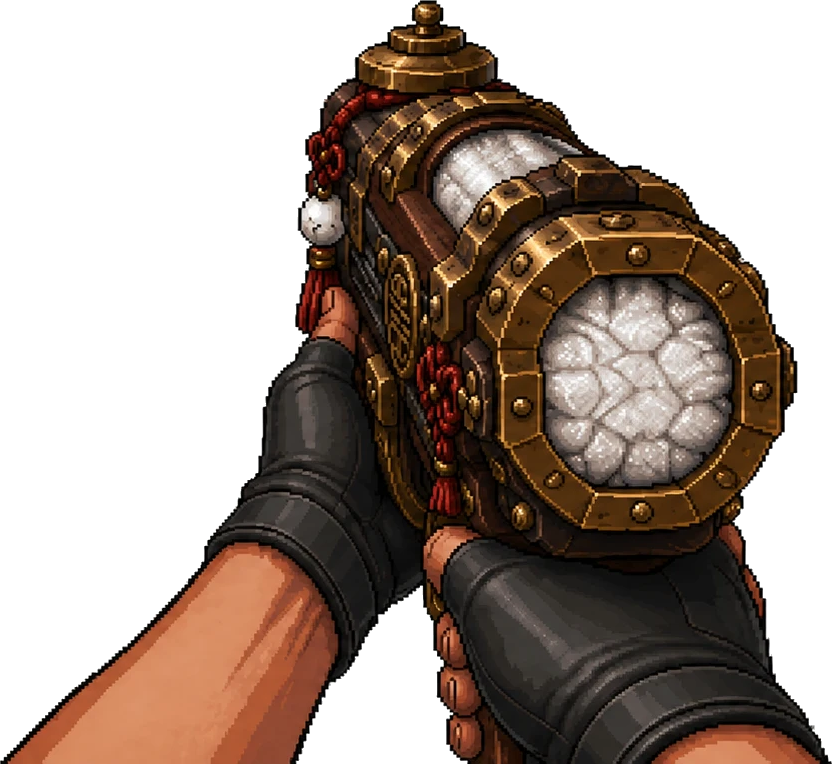
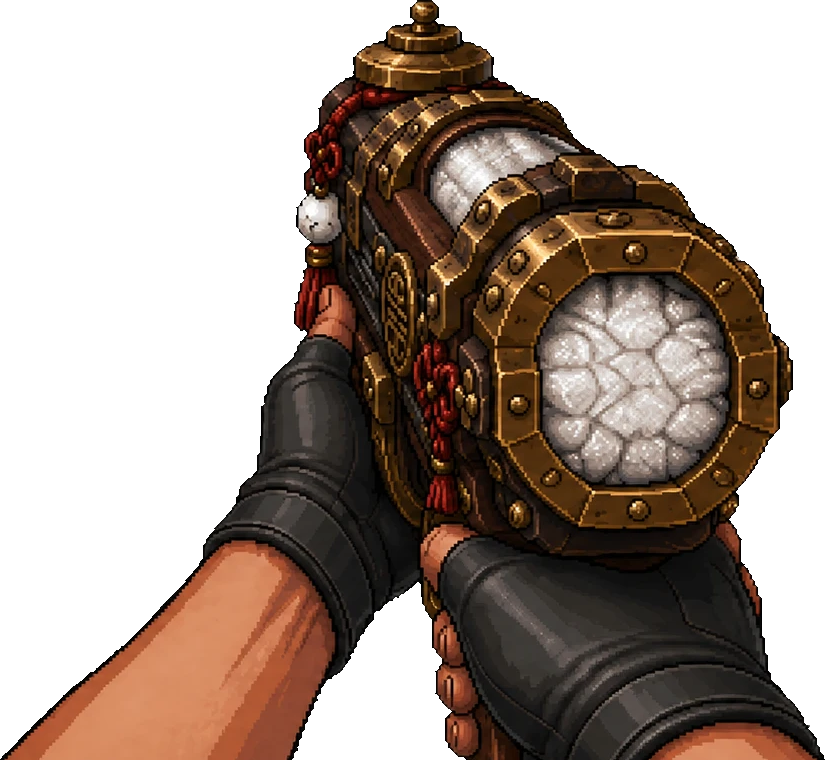
소금총 흰 테두리 제거(침식) + 총구 위치 보정 + 1인칭 무기 전체 좌측 이동

diff --git a/js/ui.js b/js/ui.js
@@ -472,7 +472,7 @@ const UI = (() => {
   // First-person gun sprites — one per weapon. Sniper falls back to the M4.
   const GUN_SPRITES = {
     pistol:     { src: 'assets/pistol.webp',   muzzle: { x: 0.28, y: 0.16 } },
-    shotgun:    { src: 'assets/shotgun.webp',  muzzle: { x: 0.76, y: 0.59 } },
+    shotgun:    { src: 'assets/shotgun.webp',  muzzle: { x: 0.80, y: 0.56 } },
     machinegun: { src: 'assets/gun.webp',      muzzle: { x: 0.20, y: 0.10 } },
     sniper:     { src: 'assets/sniper.webp',   muzzle: { x: 0.19, y: 0.05 } }
   };
@@ -583,10 +583,11 @@ const UI = (() => {
     const drawnH = H * GUN_HEIGHT_FRAC;
     const drawnW = drawnH * aspect;
 
-    // Anchor bottom-right with sway / bob / kickback offset
+    // Anchor toward the lower-right, but pulled left a bit so the weapon sits
+    // more centred in view rather than hugging the right edge.
     const swayX = Math.cos(player.bobPhase * 0.5) * 6;
     const swayY = Math.sin(player.bobPhase) * 3;
-    const drawX = W - drawnW + swayX;
+    const drawX = W - drawnW + swayX - W * 0.12;
     const drawY = H - drawnH + bob * 0.6 + kick * 1.4 + swayY;
 
     // Preserve pixel-art crispness
